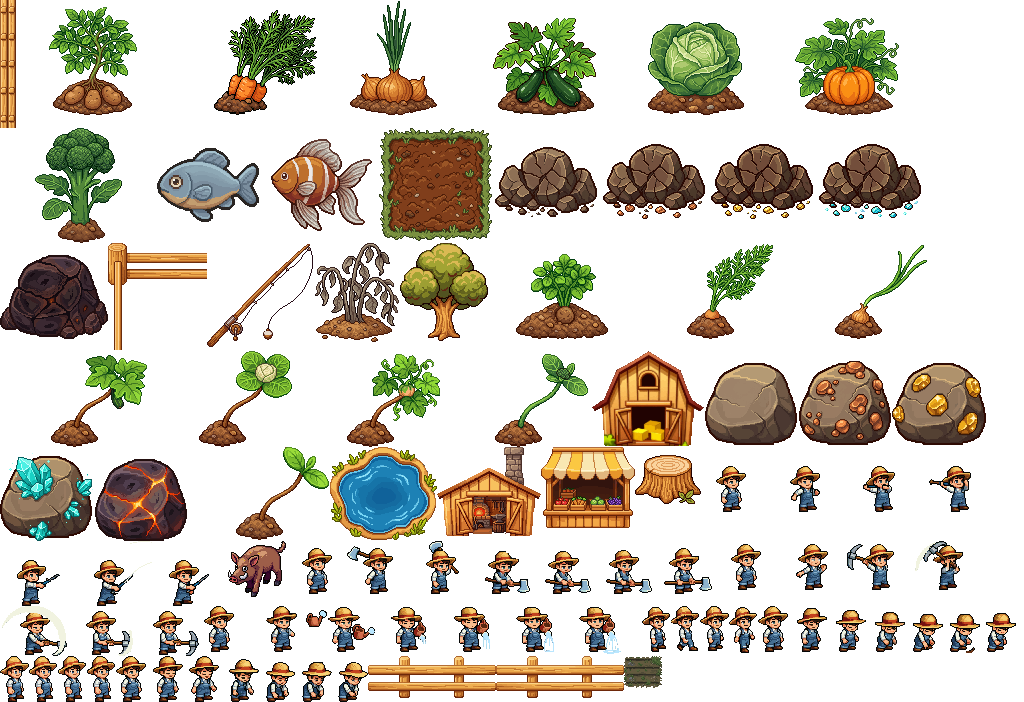
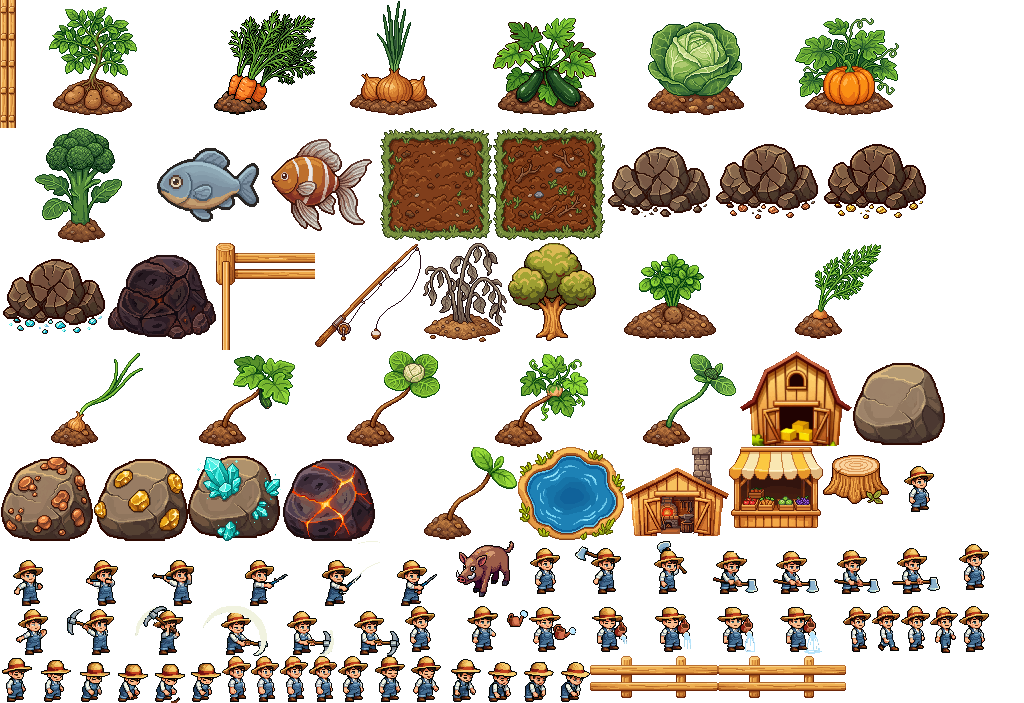
deploy mié 29/07/2026 16:30:02,49

diff --git a/public/index.html b/public/index.html
@@ -131,7 +131,7 @@
   .cfgsec{background:#faf3e2;border:1px solid var(--line);border-radius:11px;padding:12px 13px;margin-top:10px}
   .cfgsec h4{margin:0 0 4px;font-size:13px;color:var(--gold-deep)}
   .cfgsec p{margin:0 0 8px;font-size:12px;color:var(--muted);line-height:1.5}
-  .forge-list{display:flex;flex-direction:column;gap:8px;margin-top:10px;max-height:60vh;overflow:auto}
+  .forge-list{display:flex;flex-direction:column;gap:8px;margin-top:10px;max-height:52vh;overflow:auto}
   .forge-row{display:flex;align-items:center;gap:10px;background:#faf3e2;border:1px solid var(--line);border-radius:11px;padding:9px 10px}
   .forge-row.eq{border-color:var(--gold);box-shadow:0 0 0 1px var(--gold) inset}
   .forge-row .fic{width:46px;height:46px;flex:0 0 auto;background:#efe3c6;border:2px solid #d3c298;border-radius:9px;display:flex;align-items:center;justify-content:center;font-size:22px}
@@ -319,10 +319,18 @@
   <div class="ov" id="ov-forge"><div class="card" style="width:min(580px,94%)">
     <button class="close" data-close="ov-forge">×</button>
     <h3>🛠 Herrería</h3>
-    <div class="sub">Cada pico mina hasta su nivel. Cada uso gasta 1 de durabilidad; reparar cuesta 30% del material.</div>
-    <div class="forge-list" id="forge-list"></div>
-    <div class="sub" style="margin-top:12px">🪓 Herramientas — durabilidad y reparación</div>
-    <div class="forge-list" id="forge-tools"></div>
+    <div class="shoptabs">
+      <button class="shoptab forgetab active" data-forge="picks">⛏ Picos</button>
+      <button class="shoptab forgetab" data-forge="tools">🔧 Herramientas</button>
+    </div>
+    <div id="forge-pane-picks">
+      <div class="sub">Cada pico mina hasta su nivel. Cada uso gasta 1 de durabilidad; reparar cuesta 30% del material.</div>
+      <div class="forge-list" id="forge-list"></div>
+    </div>
+    <div id="forge-pane-tools" style="display:none">
+      <div class="sub">Durabilidad, reparación y crafteo de herramientas y armas.</div>
+      <div class="forge-list" id="forge-tools"></div>
+    </div>
   </div></div>
 
   <div class="ov" id="ov-inv"><div class="card" style="width:min(540px,94%)">

diff --git a/public/game/boot.js b/public/game/boot.js
@@ -16,8 +16,9 @@ class BootScene extends Phaser.Scene {
     // arte cozy nuevo (v2 rompe el caché del arte viejo)
     ["tree_stump","node_stone_mined"].forEach(k => L.push([k, P + k + ".png?v=2"]));
     // v4: restos correctos con fragmentos + brote/plantas recentrados en la tierra
-    ["sprout","node_bronze_mined","node_gold_mined","node_diamond_mined","node_netherite_mined"]
+    ["sprout","node_bronze_mined","node_gold_mined","node_diamond_mined"]
       .forEach(k => L.push([k, P + k + ".png?v=4"]));
+    L.push(["node_netherite_mined", P + "node_netherite_mined.png?v=5"]);   // restos con esquirlas negras
     L.push(["withered", P + "withered.png?v=2"]);      // cultivo marchito cozy
     // etapas intermedias (la verdura asomando al 50% del crecimiento)
     if (typeof CROP_ORDER !== "undefined") CROP_ORDER.forEach(k => L.push(["cropm_" + k, P + "cropm_" + k + ".png?v=3"]));
@@ -25,7 +26,7 @@ class BootScene extends Phaser.Scene {
       .forEach(k => L.push([k, P + k + ".png?v=2"]));   // arte cozy nuevo
     // versionados: el arte cambió y el caché de 1 día serviría el viejo
     L.push(["plot", P + "plot.png?v=4"]);   // tierra suelta que combina con los montículos
-    L.push(["plot_blocked", P + "plot_blocked.png?v=2"]);
+    L.push(["plot_blocked", P + "plot_blocked.png?v=3"]);   // sin trabajar: ramas, piedras y yuyos
     L.push(["barn", P + "barn.png?v=3"]);
     L.push(["market", P + "market.png?v=3"]);
     L.push(["store", P + "store.png?v=3"]);
@@ -39,8 +40,8 @@ class BootScene extends Phaser.Scene {
   preload() {
     // ATLAS: todos los sprites del mundo en 2 archivos (mucho más liviano para el server free).
     // Si el atlas no llega, ensureAll() baja los archivos sueltos como respaldo.
-    this.load.image("__atlas", "assets/atlas.png?v=10");
-    this.load.json("__atlasmap", "assets/atlas.json?v=10");
+    this.load.image("__atlas", "assets/atlas.png?v=11");
+    this.load.json("__atlasmap", "assets/atlas.json?v=11");
 
     // barra de carga simple
     const w = this.scale.width, h = this.scale.height;

diff --git a/public/game/ui.js b/public/game/ui.js
@@ -494,11 +494,24 @@ function initUI() {
   const pr = $("prestige"); if (pr) pr.onclick = prestige;
   document.querySelectorAll(".curbtn").forEach(b => b.onclick = () => { marketCur = b.dataset.cur; refreshMarket(); });
   document.querySelectorAll(".lbtab").forEach(b => b.onclick = () => { lbTab = b.dataset.lb; refreshLb(); });
-  document.querySelectorAll(".shoptab").forEach(b => b.onclick = () => {
-    document.querySelectorAll(".shoptab").forEach(x => x.classList.toggle("active", x === b));
+  document.querySelectorAll(".shoptab:not(.forgetab)").forEach(b => b.onclick = () => {
+    document.querySelectorAll(".shoptab:not(.forgetab)").forEach(x => x.classList.toggle("active", x === b));
     const s = b.dataset.shop;
     $("shop-buy").style.display = s === "buy" ? "" : "none";
     $("shop-sell").style.display = s === "sell" ? "" : "none";
+  });
+  // clic fuera de una ventana abierta → se cierra (el clic igual llega al juego)
+  document.addEventListener("pointerdown", (e) => {
+    if (!anyOvOpen()) return;
+    if (e.target.closest(".card, #gmenu, #hotbar, .hudbar, #logpanel, #editbar, #seedwheel")) return;
+    closeAllOv();
+  });
+  // pestañas de la Herrería: Picos / Herramientas
+  document.querySelectorAll(".forgetab").forEach(b => b.onclick = () => {
+    document.querySelectorAll(".forgetab").forEach(x => x.classList.toggle("active", x === b));
+    const s = b.dataset.forge;
+    $("forge-pane-picks").style.display = s === "picks" ? "" : "none";
+    $("forge-pane-tools").style.display = s === "tools" ? "" : "none";
   });
   // modo edición: cierra las ventanas y deja solo dos botoncitos flotantes sobre la hotbar
   window.setEditMode = (on) => {
